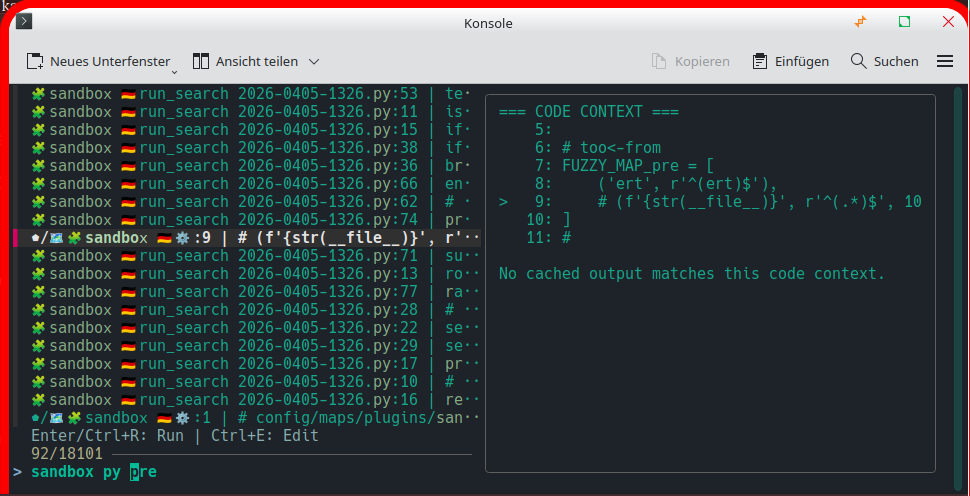
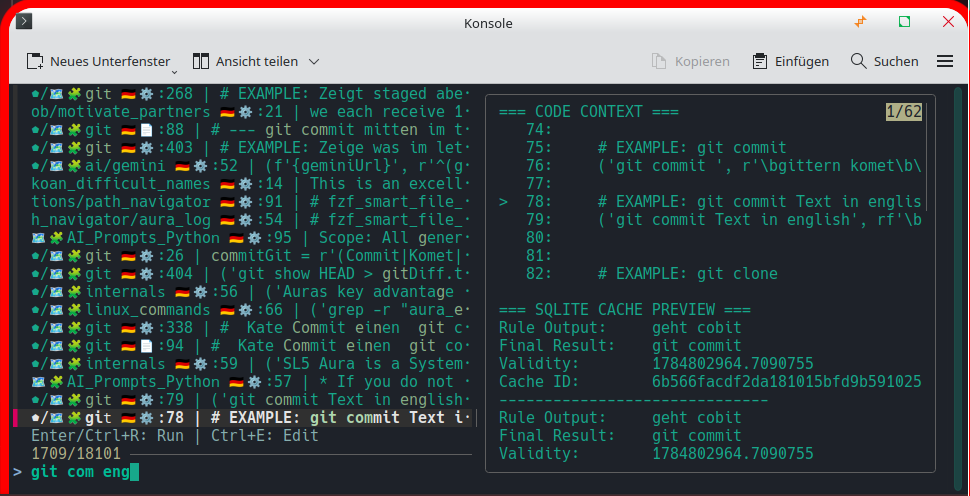
modified:   docs/Feature_Spotlight/assets/interactive_rule_search_20260727_155546.png

diff --git a/README.i18n/README-delang.md b/README.i18n/README-delang.md
@@ -11,7 +11,7 @@
 |---|---|---|
 
 
-| [grandma-mode](../docs/GettingStarted.i18n/GettingStarted-delang.md#the-oma-modus-beginner-shortcut): Schreiben Sie einfach ein Wort, Aura erledigt den Rest | Lernen Sie mit Koans – ein Konzept nach dem anderen | Vollständige Python-Skripterstellung, Plugins, API-Aufrufe |
+| [grandma-mode](../docs/GettingStarted-delang.md#the-oma-modus-beginner-shortcut): Schreiben Sie einfach ein Wort, Aura erledigt den Rest | Lernen Sie mit Koans – ein Konzept nach dem anderen | Vollständige Python-Skripterstellung, Plugins, API-Aufrufe |
 | 🗄 Staatsverwaltung | Trino + Airflow-Orchestrierung, fzf, CopyQ, Sprach-/Terminalbefehle, Browser-Benutzeroberflächen |
 
 [![Energy Consumption](https://api.green-coding.io/v1/ci/badge/get?repo=sl5net/SL5-aura-service&branch=master&workflow=261851628)](https://metrics.green-coding.io/ci.html?repo=sl5net/SL5-aura-service&branch=master&workflow=261851628)
@@ -24,7 +24,7 @@
 1. Laden Sie dieses Repository herunter oder klonen Sie es
 2. Führen Sie das Setup-Skript für Ihr Betriebssystem aus (siehe Ordner „setup/“):
 - Linux (Arch/Manjaro): `bash setup/manjaro_arch_setup.sh`
-===> 🧩 [docs/LINUX_WAYLAND_dotool](../docs/LINUX_WAYLAND_dotool.i18n/LINUX_WAYLAND_dotool-delang.md) lesen
+===> 🧩 [docs/LINUX_WAYLAND_dotool](../docs/LINUX_WAYLAND_dotool-delang.md) lesen
 - Linux (Ubuntu/Debian): `bash setup/ubuntu_setup.sh`
 - Linux (openSUSE): `bash setup/suse_setup.sh`
 - Linux (NixOS): `nix-shell setup/shell.nix`, dann `bash setup/nixos_setup.sh`
@@ -32,7 +32,7 @@
 - macOS: `bash setup/macos_setup.sh`
 - Windows: `setup/windows11_setup_with_ahk_copyq.bat`
 3. Starten Sie Aura: `./scripts/restart_venv_and_run-server.sh`
-4. Drücken Sie Ihren Hotkey und sprechen Sie – **[full guide →](../docs/GettingStarted.i18n/GettingStarted-delang.md)**
+4. Drücken Sie Ihren Hotkey und sprechen Sie – **[full guide →](../docs/GettingStarted-delang.md)**
 
 
 **⚠ Systemanforderungen und Kompatibilität**
@@ -45,7 +45,7 @@
 Erfordert mimalloc („sudo pacman -S mimalloc“) aufgrund der Glibc 2.43-Kompatibilität.
 * **Linux (NixOS):** 🧪 Experimentell – von der Community bereitgestelltes Setup, noch nicht getestet.
 Wenn Sie es versuchen, eröffnen Sie bitte eine Ausgabe oder PR mit Ihren Ergebnissen!    
-* **Linux (Manjaro):** Neu/experimentell: Ein systemweiter Hotkey öffnet eine fzf-ähnliche, tastaturgesteuerte Oberfläche, sodass Sie Aura-Befehle von überall auf dem Desktop ausführen können (völlig entkoppelt vom aktiven Fenster). Dieser Hotkey-gesteuerte Launcher wird derzeit unter Linux (Manjaro) implementiert und getestet. Andere Distributionen funktionieren möglicherweise, erfordern jedoch das Setup. Siehe in 👉 [docs/Feature_Spotlight/CopyQ_Shortcut_Super_s.md](../docs/Feature_Spotlight/CopyQ_Shortcut_Super_s.i18n/CopyQ_Shortcut_Super_s-delang.md)   
+* **Linux (Manjaro):** Neu/experimentell: Ein systemweiter Hotkey öffnet eine fzf-ähnliche, tastaturgesteuerte Oberfläche, sodass Sie Aura-Befehle von überall auf dem Desktop ausführen können (völlig entkoppelt vom aktiven Fenster). Dieser Hotkey-gesteuerte Launcher wird derzeit unter Linux (Manjaro) implementiert und getestet. Andere Distributionen funktionieren möglicherweise, erfordern jedoch das Setup. Siehe in 👉 [docs/Feature_Spotlight/CopyQ_Shortcut_Super_s.md](../docs/Feature_Spotlight/CopyQ_Shortcut_Super_s-delang.md)   
 
 
   
@@ -65,7 +65,7 @@ Hinweis: Bei vielen Texten handelt es sich um maschinell erstellte Übersetzunge
 
 [![Terminal Demo](https://github.com/sl5net/SL5-aura-service/raw/master/data/demo_fast.gif)](https://github.com/sl5net/SL5-aura-service/blob/master/data/demo_fast.gif)
 
-> **Tipp:** Für ein besseres Terminalerlebnis siehe [Zsh Integration](../docs/linux/zsh-integration.i18n/zsh-integration-delang.md).
+> **Tipp:** Für ein besseres Terminalerlebnis siehe [Zsh Integration](../docs/linux/zsh-integration-delang.md).
 
 ### 🎥 Video-Tutorial
 [![SL5 Aura: HowTo crash SL5 Aura?](https://img.youtube.com/vi/BZCHonTqwUw/0.jpg)](https://www.youtube.com/watch?v=BZCHonTqwUw)
@@ -126,6 +126,9 @@ SL5-Aura bietet erstklassige Sprachunterstützung für **OculiX** und **SikuliX 
 Eine vollständige technische Referenz, einschließlich aller Module und Skripte, finden Sie auf unserer offiziellen Dokumentationsseite. Es wird automatisch generiert und ist immer aktuell.
 
 👉[**Go to Documentation sl5net.github.io/SL5-aura-service**](https://sl5net.github.io/SL5-aura-service/)
+
+### Feature-Spotlights
+- [Interactive Rule Search & Run](../docs/Feature_Spotlight/Interactive_Rule_Search_and_Run-delang.md) – Doppelfenster-„fzf“-Regelsuche, Live-Kontextvorschau, sofortige Befehlsausführung über „Enter“/„Strg+R“ und Editor-Integration über „Strg+E“ (integriert mit „Super+S“ globalen Hotkeys und Sprachsuchbefehlen).
 
 
 ### Build-Status
@@ -430,7 +433,7 @@ Unsere primäre Engine für Offline-Spracherkennung und Audioverarbeitung.
 ││ * **Workflow:** Lädt passwortgeschützte ZIP-Archive.   
 │├ **Textverarbeitung und -korrektur/** Gruppiert nach Sprache (z. B. „de-DE“, „en-US“, ...)   
 │├ 1. `normalize_punctuation.py` (Standardisiert die Zeichensetzung nach der Transkription) 🐧 🍏 🪟  
-│├ 2. **Intelligente Vorkorrektur** (`FuzzyMap Pre` - [The Primary Command Layer](../docs/CreatingNewPluginModules.i18n/CreatingNewPluginModules-delang.md)) 🐧 🍏 🪟  
+│├ 2. **Intelligente Vorkorrektur** (`FuzzyMap Pre` - [The Primary Command Layer](../docs/CreatingNewPluginModules-delang.md)) 🐧 🍏 🪟  
 ││ * **Dynamische Skriptausführung:** Regeln können benutzerdefinierte Python-Skripte („on_match_exec“) auslösen, um erweiterte Aktionen wie API-Aufrufe, Datei-E/A auszuführen oder dynamische Antworten zu generieren.  
 ││ * **Kaskadierende Ausführung:** Regeln werden nacheinander verarbeitet und ihre Auswirkungen sind **kumulativ**. Spätere Regeln gelten für Text, der durch frühere Regeln geändert wurde.  
 ││ * **Stoppkriterium mit höchster Priorität:** Wenn eine Regel eine **Vollständige Übereinstimmung** (^...$) erreicht, stoppt die gesamte Verarbeitungspipeline für dieses Token sofort. Dieser Mechanismus ist für die Implementierung zuverlässiger Sprachbefehle von entscheidender Bedeutung.  
@@ -442,7 +445,7 @@ Unsere primäre Engine für Offline-Spracherkennung und Audioverarbeitung.
 ││ * **Status:** Lokale LLM-Integration.
 │└ 5. **Intelligente Nachkorrektur** (`FuzzyMap`)**– Post-LT-Verfeinerung** 🐧 🍏 🪟  
 ││ * Wird nach LanguageTool angewendet, um LT-spezifische Ausgaben zu korrigieren. Folgt der gleichen strengen kaskadierenden Prioritätslogik wie die Vorkorrekturschicht.  
-││ * **Dynamische Skriptausführung:** Regeln können benutzerdefinierte Python-Skripte ([on_match_exec](../docs/advanced-scripting.i18n/advanced-scripting-delang.md)) auslösen, um erweiterte Aktionen wie API-Aufrufe, Datei-E/A auszuführen oder dynamische Antworten zu generieren.  
+││ * **Dynamische Skriptausführung:** Regeln können benutzerdefinierte Python-Skripte ([on_match_exec](../docs/advanced-scripting-delang.md)) auslösen, um erweiterte Aktionen wie API-Aufrufe, Datei-E/A auszuführen oder dynamische Antworten zu generieren.  
 ││ * **Fuzzy-Fallback:** Die **Fuzzy-Ähnlichkeitsprüfung** (gesteuert durch einen Schwellenwert, z. B. 85 %) fungiert als Fehlerkorrekturebene mit der niedrigsten Priorität. Es wird nur ausgeführt, wenn bei der gesamten vorherigen Ausführung der deterministischen/kaskadierenden Regel keine Übereinstimmung gefunden wurde (current_rule_matched ist „False“). Dadurch wird die Leistung optimiert, indem nach Möglichkeit langsame Fuzzy-Prüfungen vermieden werden.  
 ├┬ **Modellverwaltung/**   
 │├─ `prioritize_model.py` (Optimiert das Laden/Entladen von Modellen basierend auf der Nutzung) 🐧 🍏 🪟  
@@ -482,7 +485,7 @@ Skripte zum Einrichten, Testen und Ausführen von Diensten.
 Bitte aktivieren Sie das Kontrollkästchen bei der Installation, um eine Verknüpfung mit Protokolldateien herzustellen.    
 https://translate.google.com/translate?hl=de&sl=en&tl=de&u=https://glogg.bonnefon.org/     
   
-*Tipp: Nachdem Sie Ihre Regex-Muster definiert haben, führen Sie „python3 tools/map_tagger.py“ aus, um automatisch durchsuchbare Beispiele für die CLI-Tools zu generieren. Weitere Informationen finden Sie unter [Map Maintenance Tools](../docs/Developer_Guide/Map_Maintenance_Tools.i18n/Map_Maintenance_Tools-delang.md).*
+*Tipp: Nachdem Sie Ihre Regex-Muster definiert haben, führen Sie „python3 tools/map_tagger.py“ aus, um automatisch durchsuchbare Beispiele für die CLI-Tools zu generieren. Weitere Informationen finden Sie unter [Map Maintenance Tools](../docs/Developer_Guide/Map_Maintenance_Tools-delang.md).*
 
 Dann vielleicht einen Doppelklick machen
 `log/aura_engine.log`
